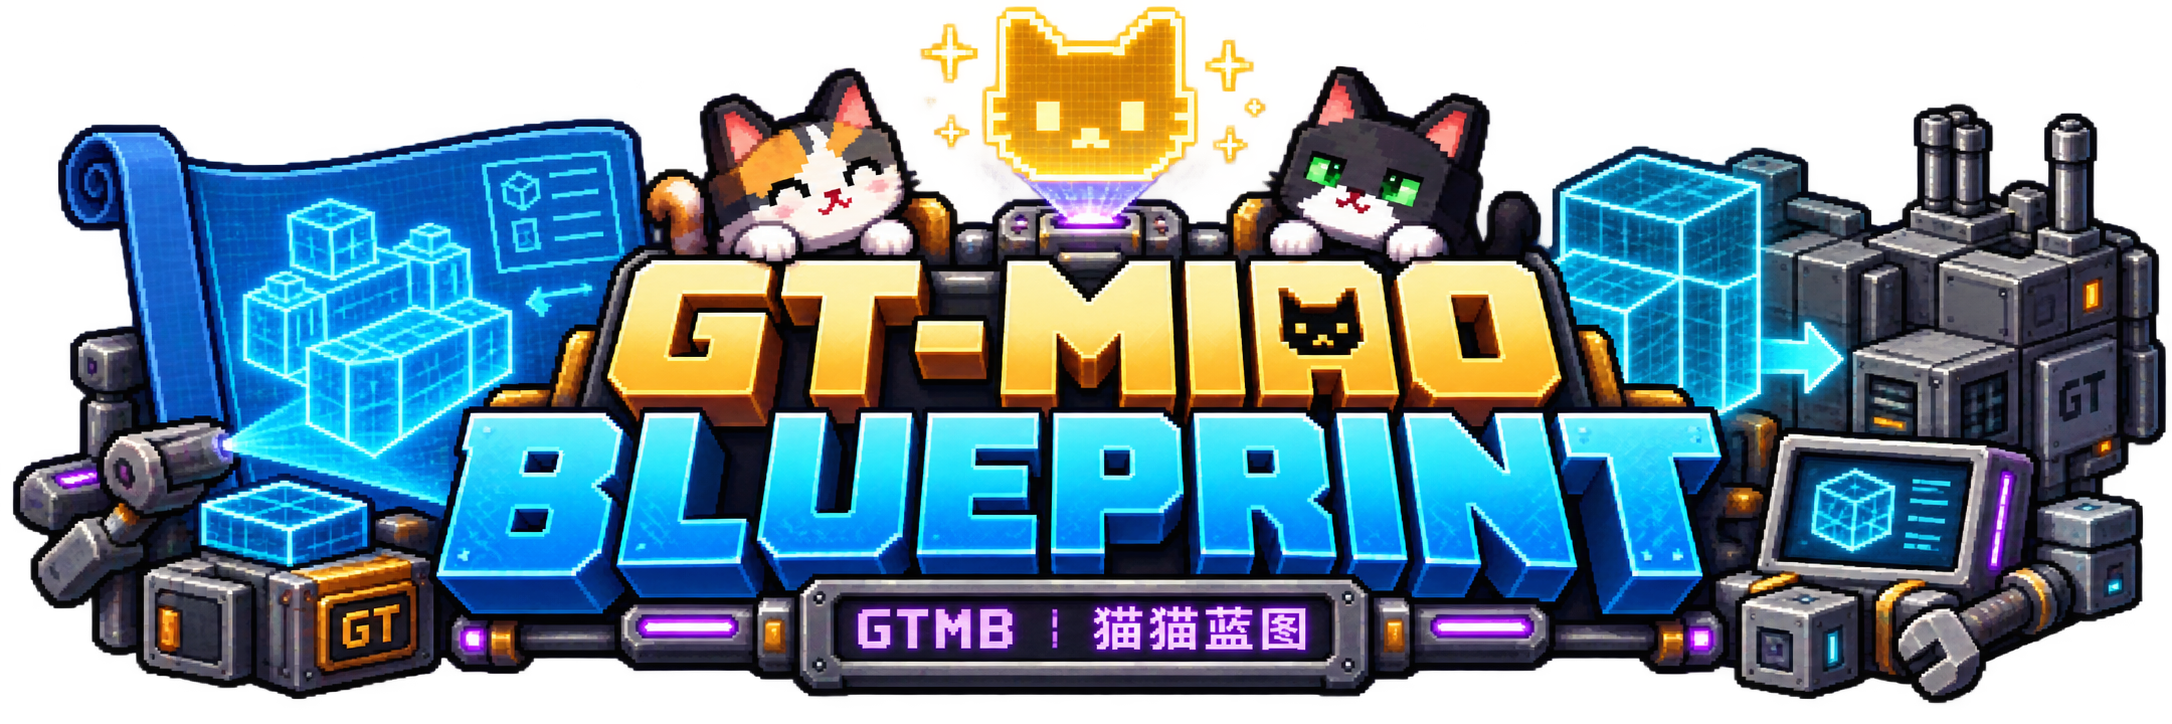
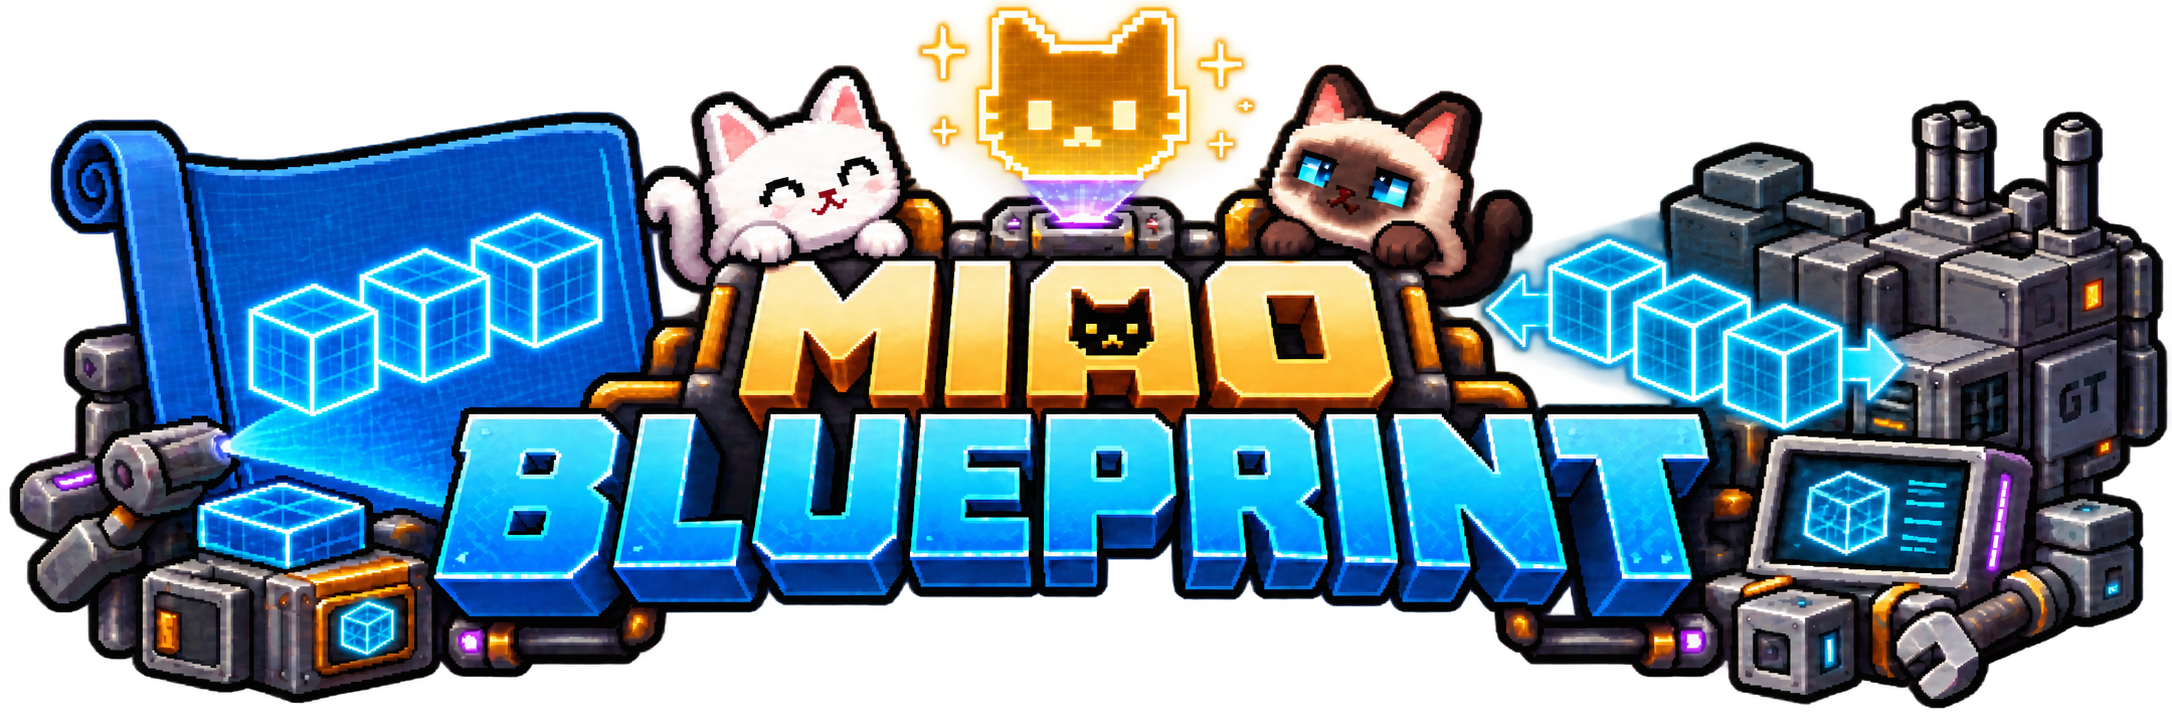
v0.0.1 调整猫猫蓝图抬头与中英文介绍
抬头只保留 MIAO BLUEPRINT，使用白猫与暹罗猫，蓝图和投影简化为规则立方体

README 沿用 GTIT 风格并精简为中英文介绍，下载指向后续 Release

diff --git a/README.md b/README.md
@@ -1,79 +1,54 @@
 <p align="center">
-  <img src="README/GTMB.png" width="1100" alt="GT-Miao-Blueprint · GTMB · 猫猫蓝图">
+  <img alt="MIAO Blueprint" src="README/GTMB.png">
 </p>
 
 <h1 align="center">GT-Miao-Blueprint</h1>
-<p align="center"><strong>猫猫蓝图 · GTMB</strong><br>给 GregTech New Horizons 的结构规划、蓝图编辑与分享工具。</p>
+<p align="center"><strong><em>猫猫蓝图 · GTNH 结构与蓝图工具</em></strong><br><strong><em>Miao Blueprint · Structure & Blueprint Tools for GTNH</em></strong></p>
 
 <p align="center">
-  <a href="LICENSE"><img alt="AGPL-3.0" src="https://img.shields.io/badge/License-AGPL--3.0-blue"></a>
-  <img alt="Minecraft 1.7.10" src="https://img.shields.io/badge/Minecraft-1.7.10-blue">
-  <img alt="GTNH 2.9.0 RC-2" src="https://img.shields.io/badge/GTNH-2.9.0%20RC--2-orange">
-  <img alt="Private development" src="https://img.shields.io/badge/Status-Private%20Development-cyan">
+  <a href="LICENSE"><img alt="License AGPL-3.0" src="https://img.shields.io/badge/License-AGPL--3.0-blue.svg"></a>
+  <img alt="Minecraft 1.7.10" src="https://img.shields.io/badge/Minecraft-1.7.10-blue.svg">
+  <img alt="Forge 10.13.4.1614" src="https://img.shields.io/badge/Forge-10.13.4.1614-blue.svg">
+  <a href="https://github.com/GTNewHorizons/GT-New-Horizons-Modpack"><img alt="GTNH 2.9.0 RC-2" src="https://img.shields.io/badge/GTNH-2.9.0%20RC--2-orange.svg"></a>
+  <a href="https://github.com/MIAOKATZE/GT-Miao-Blueprint/releases"><img alt="Releases" src="https://img.shields.io/badge/Downloads-Releases-green.svg"></a>
 </p>
 
-GTMB 将猫猫投影仪从 GT-Interesting-Thing 中独立出来。它可以直接在 GTNH 整合包中运行，**不需要安装 GTIT**。手持投影仪即可查看机器结构、规划施工，或把一片建筑区域保存为可以编辑和分享的蓝图。
+A standalone GregTech New Horizons mod for **previewing structures, editing blueprints and building with your materials**. Save a machine or a selected world region as a blueprint, then edit and share it. GTIT is optional.
 
-GTMB is a standalone structure planning and blueprint mod for GregTech New Horizons. GTIT is optional; the projector, editor, renderer and placement service belong to GTMB.
+一个独立的 GregTech New Horizons 模组，用于**结构预览、蓝图编辑和材料施工**。把机器或框选的建筑区域保存为蓝图，再编辑、放置和分享。无需安装 GTIT。
 
-## 获取与安装
+## Downloads & Requirements / 下载与版本需求
 
-当前处于私有开发阶段，尚未发布公开 Release。使用本项目构建或本轮交付的主 jar，将其放入 GTNH 实例的 `mods` 目录；客户端与服务器均需要安装 GTMB。
+Packaged jars will be available on [GitHub Releases](https://github.com/MIAOKATZE/GT-Miao-Blueprint/releases). The first release is being prepared for **GTNH 2.9.0 RC-2 / Minecraft 1.7.10**. Install GTMB on both the client and server.
 
-首版开发基线为 **GTNH 2.9.0 RC-2**、GregTech `5.09.54.205`、StructureLib `1.4.45` 和 AE2 `rv3-beta-1080-GTNH`。旧整合包版本尚未作为本项目独立验证的兼容范围。
+成品 jar 将通过 [GitHub Releases](https://github.com/MIAOKATZE/GT-Miao-Blueprint/releases) 发布。首版正在准备，面向 **GTNH 2.9.0 RC-2 / Minecraft 1.7.10**。客户端和服务端均需安装 GTMB。
 
-**制作投影仪：** 将 **1 个 GTNH「多方块结构全息投影仪」**放入合成网格，无序合成为 **1 个猫猫投影仪**。输入来自 StructureLib 的原生物品，不需要猫猫币或 GTIT。
+## Neko Projector / 猫猫投影仪
 
-## 可以做什么
+Craft **one StructureLib Hologram Projector into one Neko Projector** with a shapeless recipe. With a compatible GTIT version installed, the Neko Vending Machine also offers one projector for **one ordinary Neko Coin**.
 
-- **结构规划：** 查看目标、现场和差分，调整结构信道、仓室、朝向及施工范围，核对材料后补建、替换或拆除。
-- **区域蓝图：** 框选世界中的建筑区域，识别其中的多个结构，分别控制、选择和编辑。
-- **蓝图编辑：** 多选、立体框选、复制粘贴、移动轴、全局或局部提示词，以及排除不需要放置的方块。
-- **完整记录：** 可选保存设备 NBT、覆盖板和覆盖板数据；放置时校准所有者，并核对库存、流体和无线电网 EU。
-- **兼容与分享：** 查看来源 Mod、版本差异和缺失方块；通过服务端 JSON 文件导入、导出蓝图。
+将 **1 个 StructureLib 多方块结构全息投影仪无序合成为 1 个猫猫投影仪**。同装兼容版本的 GTIT 时，也可在猫猫机用 **1 枚普通猫猫币**兑换。
 
-## 快速操作
+- **Structures / 结构** — Preview and adjust machine structures; plan construction, replacement or dismantling. 预览和调整机器结构，规划补建、替换或拆除。
+- **Blueprints / 蓝图** — Capture regions, select and move blocks, edit hints, exclude blocks, and import or export JSON. 框选区域、多选与移动方块、编辑提示词、排除放置，并导入或导出 JSON。
+- **Machine data / 设备数据** — Choose NBT and cover entries to save; check materials and resources before placement. 按需保存 NBT 与覆盖板数据，放置前核对材料和资源。
+- **Compatibility / 兼容信息** — View missing blocks and source mod version differences. 查看缺失方块及来源模组的版本差异。
 
-| 操作 | 用途 |
+## Quick Start / 快速使用
+
+| Action / 操作 | Purpose / 用途 |
 | --- | --- |
-| 右键多方块控制器 | 读取结构并打开工作台。 |
-| Shift + 右键 | 打开投影仪自己的工作台，切换「结构 / 蓝图」。 |
-| Shift + Alt + 右键 | 开始或结束世界区域框选。 |
-| 框选模式中左键 / 右键 | 设置第一点 / 第二点；按住 Alt 使用玩家坐标。 |
-| Ctrl + 点击 / Shift + 拖动 | 多选 / 立体框选预览中的方块。 |
-| Alt + 右键 | 选择蓝图并核对材料；进入世界预览后，再次按下锁定位置。 |
-| 锁定后 Shift + 右键 | 重开工作台并确认施工。 |
+| Shift + right-click / 右键 | Open the Structure / Blueprint workspace. 打开「结构 / 蓝图」工作台。 |
+| Shift + Alt + right-click / 右键 | Start or finish world region selection. 开始或结束世界区域框选。 |
+| Left / right-click in selection mode / 框选时左键、右键 | Set the two corners; hold Alt to use your position. 设置两个角点；按住 Alt 使用自身坐标。 |
+| Alt + right-click / 右键 | Select a blueprint and check materials, then enter placement preview. 选择蓝图并核对材料，再进入放置预览。 |
 
-详细行为、保存选项与编辑快捷键见 [投影仪操作说明](docs/neko-hologram-projector.md)。
+See the [projector guide](docs/neko-hologram-projector.md) for detailed controls. Blueprints and shared JSON files are stored under the server's `config/gtmb/` directory.
 
-## 材料与设备数据
+详细操作见[投影仪说明](docs/neko-hologram-projector.md)。蓝图与分享 JSON 保存在服务端 `config/gtmb/` 目录。
 
-保存默认包含可写的设备 NBT 根条目，用户可逐项关闭；也可以在本次放置时临时取消条目，而不修改保存的蓝图。库存从已启用的物品来源提取，流体从 AE 提取，储能 EU 从 GT 无线电网扣除。最终施工时重新检验并实际扣除，失败时按事务回执退款。
+## License & Origins / 许可与来源
 
-无法正确计价的未知存储格式，以及当前 AE 接口不能保留标签的流体，会明确提示取消相应条目。缺料可以二次确认，只施工有实际材料的部分。AE 自动下单保留扩展接口，首版不包含内置自动合成下单。
+[AGPL-3.0](LICENSE). The projector originated in GT-Interesting-Thing and is now maintained independently as GTMB. Development notes are kept in [GT-Miao-Blueprint-plan](https://github.com/MIAOKATZE/GT-Miao-Blueprint-plan).
 
-## 配置、蓝图与联动
-
-GTMB 的设置、预设库和分享文件位于服务端 `config/gtmb/`；客户端快捷键位于客户端的 GTMB 配置文件中。分享文件由服务端管理，跨服务器分享时需要自行传递 JSON。
-
-GTIT 已将投影仪功能解离。安装支持 GTMB 的 GTIT 版本时，猫猫机提供 **1 枚普通猫猫币 → 1 个猫猫投影仪**的可选兑换；未安装 GTMB 时不会出现这个兑换条目。
-
-同装时仅 GTMB 提供投影渲染、采集与施工引擎，GTIT 不再保留另一套实现。旧 `gtit:neko_hologram_projector` 物品可在 GTMB 在场时映射为新物品；旧存档和 GTIT 预设不做专门迁移。普通旧版蓝图 JSON 的格式兼容不等于自动迁移旧配置目录。
-
-供其它模组使用的只读接口位于 `com.miaokatze.gtmb.api.GTMBApi`，提供注册物品与引擎归属查询。放置权限、验料和事务始终由服务端控制。
-
-## 开发与验证
-
-```powershell
-.\gradlew.bat build
-```
-
-具体回归、独立客户端与服务器运行方式见 [开发与验证](docs/development-and-validation.md)。只将有实际回执的检查写为通过；源 GTIT 的验证记录不代表迁移后的 GTMB 已经验证。
-
-当前版本已通过 47 项手写回归、独立服务端四套检查、17 项客户端 UI 检查，以及单装和 GTIT 同装的真实 socket 建造、升级、拆除。共装额外核验实际注册表、1 币交易、唯一引擎和 Forge 旧物品映射。测试使用隔离世界；AE 流体测试使用认证 monitor fixture，尚未代替完整整合包中的 live AE 网络验收。
-
-开发记录单独保存在 [GT-Miao-Blueprint-plan](https://github.com/MIAOKATZE/GT-Miao-Blueprint-plan) 仓库，本地落点为 `plan/`。它包含架构摘要、迁移范围、验收矩阵和每轮 workflow；不打包进模组 jar。
-
-## 许可与来源
-
-本项目采用 [AGPL-3.0](LICENSE)，由 GTIT 的猫猫全息投影仪模块迁移并独立维护。README 抬头图使用内置 imagegen 工具生成；透明原图位于 [README/GTMB.png](README/GTMB.png)，制作说明和提示词保存在计划仓库。
+采用 [AGPL-3.0](LICENSE)。投影仪源于 GT-Interesting-Thing，现独立为 GTMB 维护。开发记录见 [GT-Miao-Blueprint-plan](https://github.com/MIAOKATZE/GT-Miao-Blueprint-plan)。
